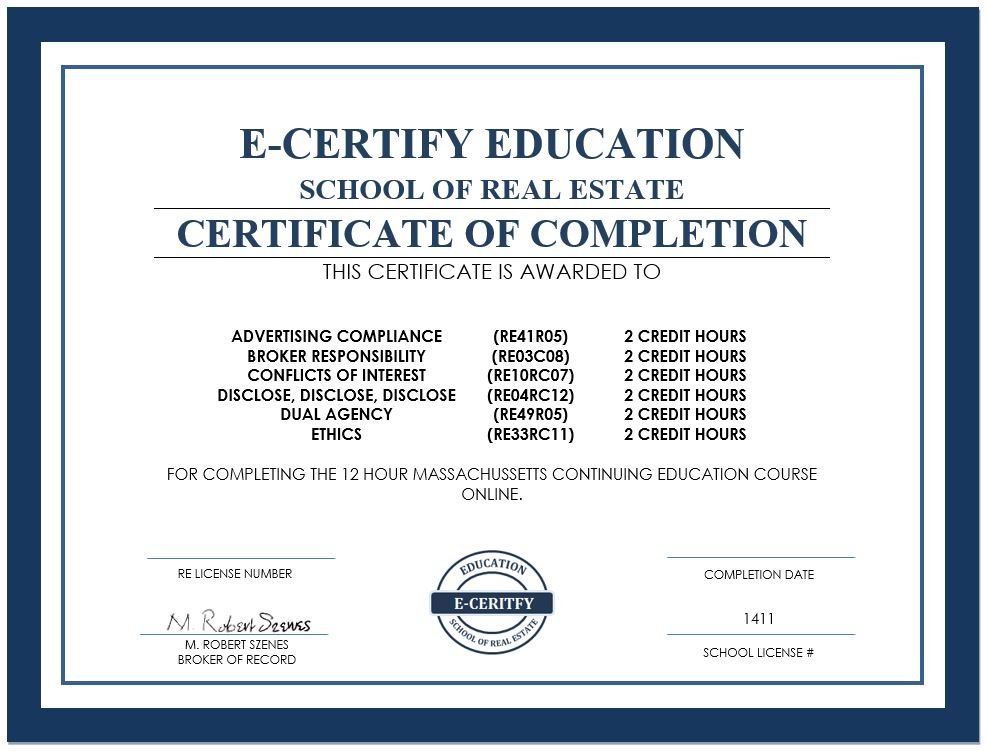
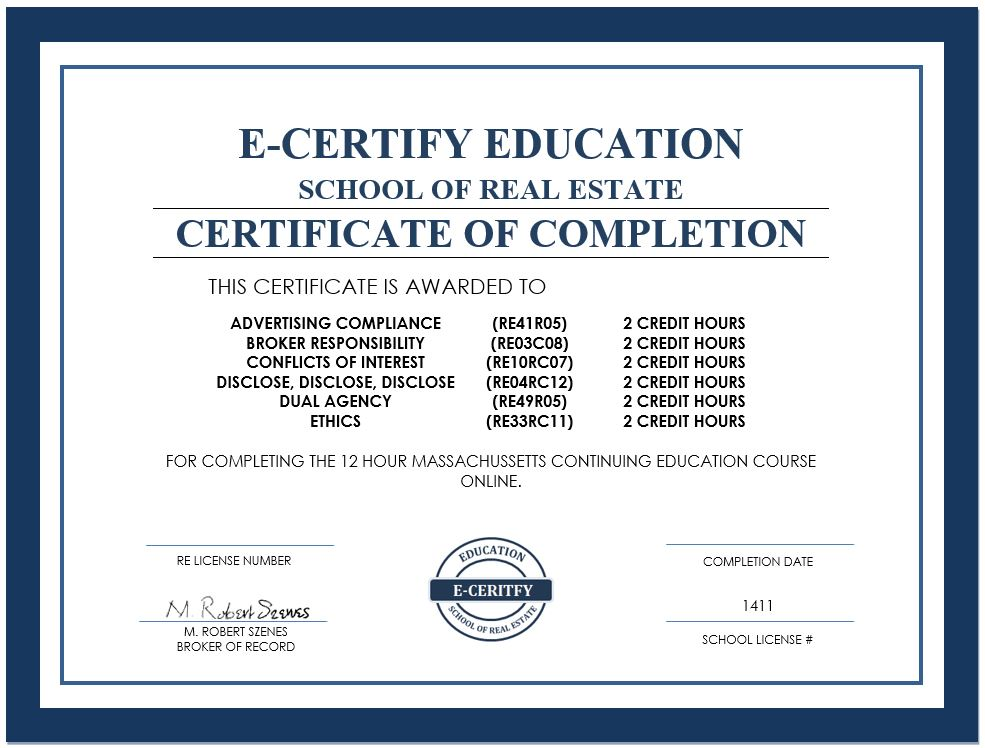
cert fixed

diff --git a/app/Http/Controllers/UserController.php b/app/Http/Controllers/UserController.php
@@ -138,6 +138,9 @@ class UserController extends Controller
 
 
     public function createCertificate($license){
+
+        $host = request()->getHttpHost();
+
         $today= date('Y-m-d');
 
         $user_email=\Auth::user()->email;
@@ -170,7 +173,7 @@ class UserController extends Controller
             header('Content-type: image/jpeg');
 
 
-            $jpg_image = imagecreatefromjpeg('https://e-certify.bhmlabs.ca/images/certi/certificate.jpg');
+            $jpg_image = imagecreatefromjpeg('https://'.$host .'/images/certi/certificate.jpg');
 
 
             $color = imagecolorallocate($jpg_image, 10, 10, 10);
@@ -188,7 +191,7 @@ class UserController extends Controller
             $text = "This is a sunset!";
             $fontSize = 8;
 
-            imagettftext($jpg_image, 18, 0, 668, 280, $color, $font_path, $name);
+            imagettftext($jpg_image, 18, 0, 553, 294, $color, $font_path, $name);
 
             imagettftext($jpg_image, 18, 0, 669, 538, $color, $font_path, date("F jS Y", strtotime($today)));
             //imagettftext($jpg_image, 18, 0, 589, 442, $color, $font_path, $license);
@@ -209,5 +212,12 @@ class UserController extends Controller
 
 
 
+    }
+
+
+    public function test(){
+        $host = request()->getHttpHost();
+
+        return $host;
     }
 }

diff --git a/routes/web.php b/routes/web.php
@@ -66,5 +66,6 @@ Route::get('/admin/user/{id}','AdminController@userInfo');
 Route::get('/admin/user/{user_id}/video/{video_id}','AdminController@skipVideo');
 
 
+Route::get('/test','UserController@test');
 
 
